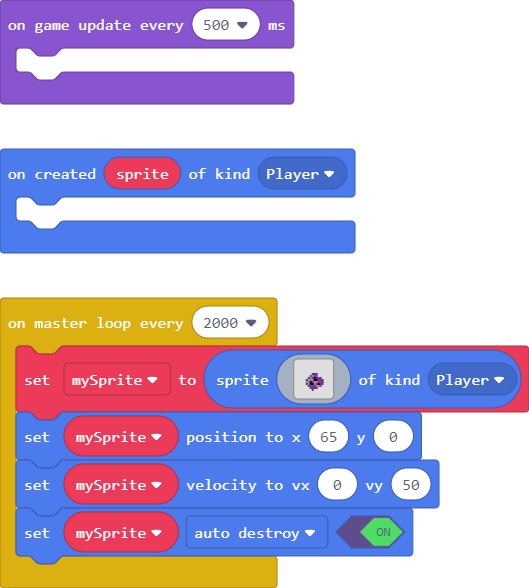
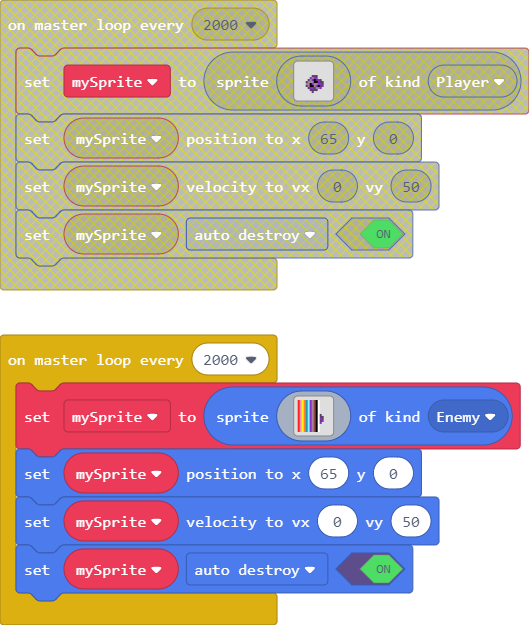
Update main.blocks, main.ts, multiplayer.ts

diff --git a/main.ts b/main.ts
@@ -1,22 +1,22 @@
 multiplayer.onMasterLoop(2000, function () {
     mySprite = sprites.create(img`
-. . . . . . . . . . . . . . . . 
-. . . . . . . . . . . . . . . . 
-. . . . . . . . . . . . . . . . 
-. . . . . . . . . . . . . . . . 
-. . . . . . . . . . . . . . . . 
-. . . . . . . c c c . . . . . . 
-. . . . . . a b a a . . . . . . 
-. . . . . c b a f c a c . . . . 
-. . . . c b b b f f a c c . . . 
-. . . . b b f a b b a a c . . . 
-. . . . c b f f b a f c a . . . 
-. . . . . c a a c b b a . . . . 
-. . . . . . c c c c . . . . . . 
-. . . . . . . c . . . . . . . . 
-. . . . . . . . . . . . . . . . 
-. . . . . . . . . . . . . . . . 
-`, SpriteKind.Player)
+2 3 5 4 6 9 a b e f 1 . . . . . 
+2 3 5 4 6 9 a b e f 1 . . . . . 
+2 3 5 4 6 9 a b e f 1 . . . . . 
+2 3 5 4 6 9 a b e f 1 . . . . . 
+2 3 5 4 6 9 a b e f 1 . . . . . 
+2 3 5 4 6 9 a b e f 1 . . . . . 
+2 3 5 4 6 9 a b e f 1 . . . . . 
+2 3 5 4 6 9 a b e f 1 c . . . . 
+2 3 5 4 6 9 a b e f 1 c c . . . 
+2 3 5 4 6 9 a b e f 1 a c . . . 
+2 3 5 4 6 9 a b e f 1 c a . . . 
+2 3 5 4 6 9 a b e f 1 a . . . . 
+2 3 5 4 6 9 a b e f 1 . . . . . 
+2 3 5 4 6 9 a b e f 1 . . . . . 
+2 3 5 4 6 9 a b e f 1 . . . . . 
+2 3 5 4 6 9 a b e f 1 . . . . . 
+`, SpriteKind.Enemy)
     mySprite.setPosition(65, 0)
     mySprite.setVelocity(0, 50)
     mySprite.setFlag(SpriteFlag.AutoDestroy, true)

diff --git a/multiplayer.ts b/multiplayer.ts
@@ -133,8 +133,29 @@ namespace multiplayer {
     }
  
 //==================================
-    sprites.onCreated(SpriteKind.Player, function (sprite) {
+
+
+   
+
+    sprites.onCreated(SpriteKind.Enemy, function (sprite) {
            // console.log(sprite.image.  );
+
+           let b:Buffer = control.createBuffer(0) ;
+           let im:Image  = sprite.image;
+           
+           if(pl1==undefined) return;
+           
+            for(let c=0;c<16;c++){
+                let tmp: Buffer = control.createBuffer(16);
+                sprite.image.getRows(c, tmp );
+                b = b.concat(tmp);
+            }
+
+           
+           
+           //pl1.image.setRows(2, b);
+           console.log("buffer");
+           console.log(    (b.toHex())  );
     })
 
 
